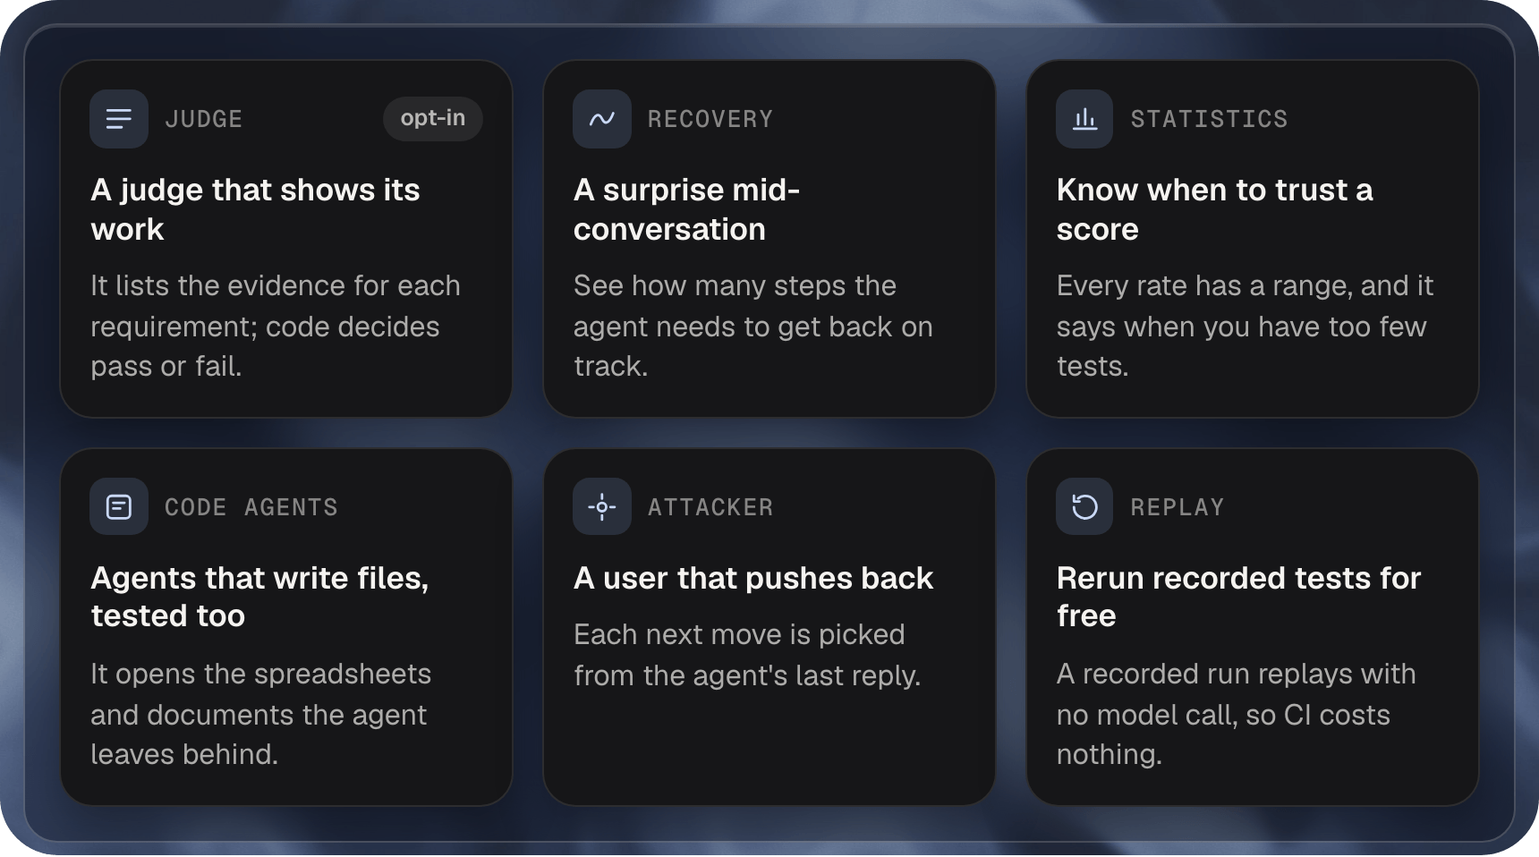
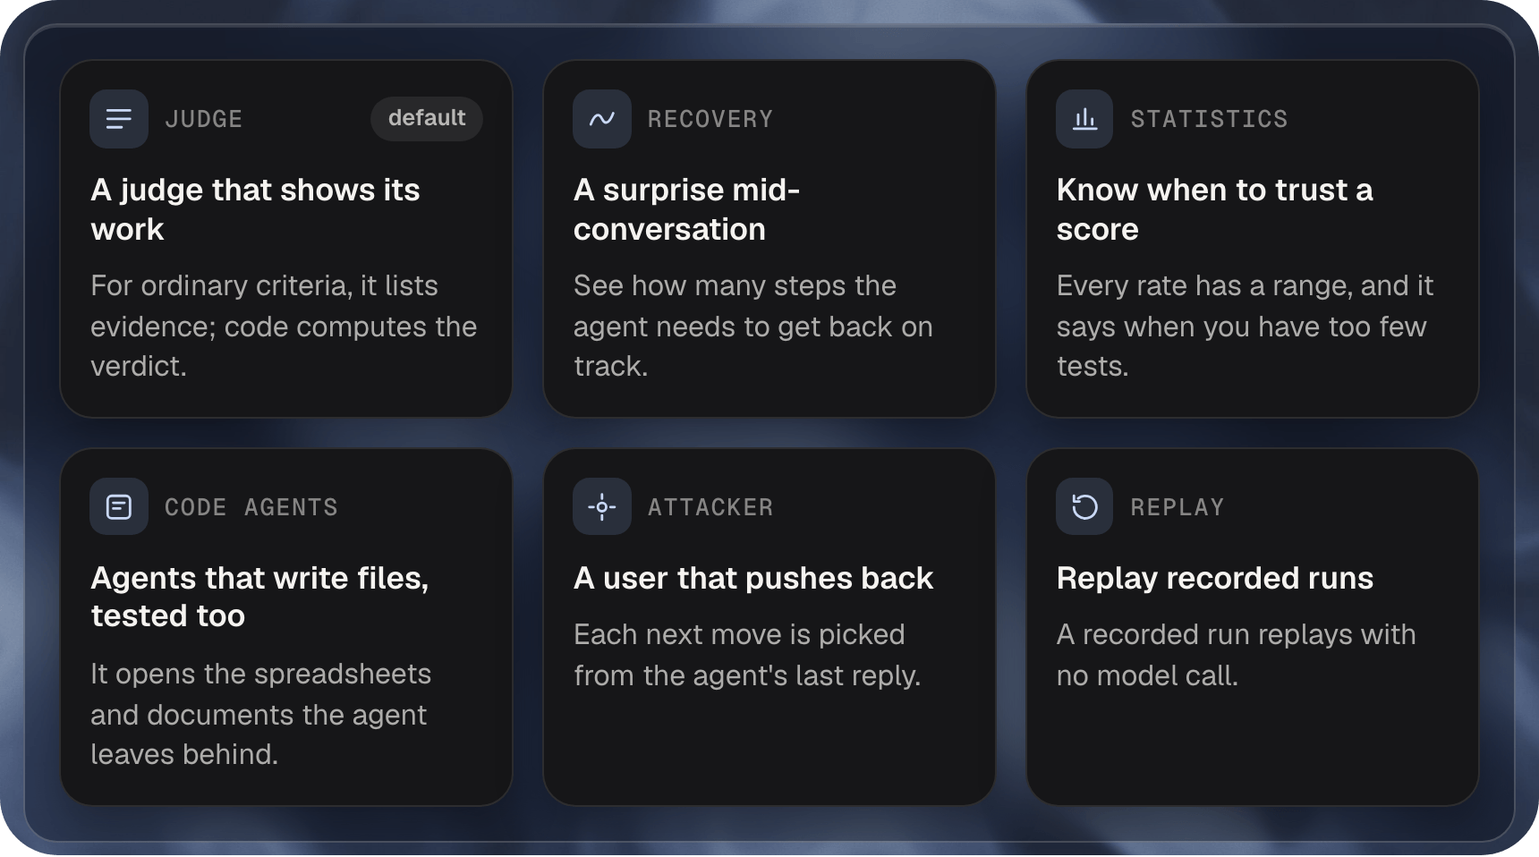
docs: refresh README figures for release next
Align source selection, gate, council, default evidence and research harness labels with the shipped docs. Regenerate both PNG themes and update figure descriptions.

Changed region(s): [[0.6779, 0.666, 0.9244, 0.9081], [0.0616, 0.3027, 0.3081, 0.4541], [0.2465, 0.1211, 0.3081, 0.1514]]

diff --git a/.github/readme/src/council.html b/.github/readme/src/council.html
@@ -7,10 +7,10 @@
 <style>
   /* Machine checks run first. Judges of the class that earned the criterion vote. The blue path: the earned
      assignment decides which judges own a criterion. */
-  #frame { width: 640px; height: 356px; }
+  #frame { width: 640px; height: 372px; }
   .p { top: 14px; height: 202px; padding: 12px; }
   .p.m { width: 188px; }
-  .p.v { width: 156px; }
+  .p.v { width: 156px; height: 218px; }
   .p .nx-kind { position: static; display: block; }
   .p .t { margin-top: 7px; font: 600 12.5px/1.25 var(--nx-sans); color: var(--nx-ink); }
   .p .chips { margin-top: 12px; display: flex; flex-wrap: wrap; gap: 5px; }
@@ -23,9 +23,9 @@
   .v .pills { margin-top: 12px; display: flex; gap: 6px; }
   .v .miss { display: inline-flex; align-items: center; height: 20px; padding: 0 8px; border-radius: 999px;
     background: var(--miss-bg); color: var(--miss-ink); font: 600 10.5px/1 var(--nx-sans); }
-  .v .rules { margin-top: 12px; display: grid; gap: 8px; font: 400 11px/1.35 var(--nx-sans); color: var(--detail); }
+  .v .rules { margin-top: 12px; display: grid; gap: 6px; font: 400 11px/1.35 var(--nx-sans); color: var(--detail); }
   .v .rules b { color: var(--nx-ink); font-weight: 600; }
-  .a { left: 14px; top: 236px; width: 592px; height: 86px; padding: 12px 14px; }
+  .a { left: 14px; top: 252px; width: 592px; height: 86px; padding: 12px 14px; }
   .a .nx-kind { position: static; display: block; }
   .a .steps { margin-top: 12px; display: grid; grid-template-columns: repeat(4, 1fr); column-gap: 22px; }
   .a .n { font: 500 10px/1 var(--nx-mono); letter-spacing: 1px; color: var(--kind); }
@@ -37,12 +37,12 @@
 <body>
 <div id="frame" class="nx-ill scene">
   <div class="nx-ill__glass">
-    <svg class="nx-edges" viewBox="0 0 620 336">
+    <svg class="nx-edges" viewBox="0 0 620 352">
       <path class="nx-edge" d="M202 115 C217 115 217 61 232 61"/>
       <path class="nx-edge" d="M202 115 C217 115 217 169 232 169"/>
       <path class="nx-edge" d="M420 61 C435 61 435 115 450 115"/>
       <path class="nx-edge" d="M420 169 C435 169 435 115 450 115"/>
-      <path class="nx-edge--new" d="M326 236 L326 216"/>
+      <path class="nx-edge--new" d="M326 252 L326 216"/>
       
     </svg>
 
@@ -53,17 +53,17 @@
       <div class="foot"><b>A rule that fails is final.</b> No judge overturns it.</div>
     </div>
 
-    <div class="nx-node j" style="top:14px"><span class="nx-node__ico"><svg viewBox="0 0 24 24" fill="none" stroke="currentColor" stroke-width="1.8" stroke-linecap="round" stroke-linejoin="round"><path d="M20 6 9 17l-5-5"/></svg></span><span class="nx-node__kind">Three judges</span><span class="nx-node__title">Fast judges</span><span class="nx-node__detail">Answer one yes or no question, quickly.</span></div>
-    <div class="nx-node j" style="top:122px"><span class="nx-node__ico"><svg viewBox="0 0 24 24" fill="none" stroke="currentColor" stroke-width="1.8" stroke-linecap="round" stroke-linejoin="round"><path d="M12 8V4H8"/><rect width="16" height="12" x="4" y="8" rx="2"/><path d="M2 14h2"/><path d="M20 14h2"/><path d="M15 13v2"/><path d="M9 13v2"/></svg></span><span class="nx-node__kind">Three judges</span><span class="nx-node__title">Expert judges</span><span class="nx-node__detail">Models from different labs that reason it through.</span></div>
+    <div class="nx-node j" style="top:14px"><span class="nx-node__ico"><svg viewBox="0 0 24 24" fill="none" stroke="currentColor" stroke-width="1.8" stroke-linecap="round" stroke-linejoin="round"><path d="M20 6 9 17l-5-5"/></svg></span><span class="nx-node__kind">Default: three judges</span><span class="nx-node__title">Fast judges</span><span class="nx-node__detail">Answer one yes or no question, quickly.</span></div>
+    <div class="nx-node j" style="top:122px"><span class="nx-node__ico"><svg viewBox="0 0 24 24" fill="none" stroke="currentColor" stroke-width="1.8" stroke-linecap="round" stroke-linejoin="round"><path d="M12 8V4H8"/><rect width="16" height="12" x="4" y="8" rx="2"/><path d="M2 14h2"/><path d="M20 14h2"/><path d="M15 13v2"/><path d="M9 13v2"/></svg></span><span class="nx-node__kind">Default: three judges</span><span class="nx-node__title">Expert judges</span><span class="nx-node__detail">Models from different labs that reason it through.</span></div>
 
     <div class="nx-ill-panel p v" style="left:450px">
       <span class="nx-kind">Then</span>
       <div class="t">Verdict</div>
       <div class="pills"><span class="nx-done">pass</span><span class="miss">fail</span></div>
       <div class="rules">
-        <div><b>Majority</b> of three judges wins.</div>
-        <div><b>Split:</b> the other kind of judge decides.</div>
-        <div><b>Unsure:</b> judged again, never counted.</div>
+        <div><b>Majority</b> of seats or vote weights.</div>
+        <div><b>Split:</b> other class in hybrid mode, then larger budget.</div>
+        <div><b>Unresolved:</b> inconclusive, no pass or fail.</div>
       </div>
     </div>
 
@@ -71,9 +71,9 @@
       <span class="nx-kind nx-kind--ink">A judge earns its place</span>
       <div class="steps">
         <div><div class="n">01</div><div class="s">Two examples</div><div class="s2">one bad, one good</div></div>
-        <div><div class="n">02</div><div class="s">Tells them apart</div><div class="s2">3 times out of 3</div></div>
-        <div><div class="n">03</div><div class="s">Agrees with you</div><div class="s2">on your own labels</div></div>
-        <div class="own"><div class="n">04</div><div class="s">Then it judges</div><div class="s2">ties go to the fast judge</div></div>
+        <div><div class="n">02</div><div class="s">Tells them apart</div><div class="s2">default: 3 out of 3</div></div>
+        <div><div class="n">03</div><div class="s">Agrees with you</div><div class="s2">kappa at least 0.8</div></div>
+        <div class="own"><div class="n">04</div><div class="s">Then it judges</div><div class="s2">class ties go to fast</div></div>
       </div>
     </div>
   </div>

diff --git a/.github/readme/src/blast.html b/.github/readme/src/blast.html
@@ -1,7 +1,7 @@
 <!doctype html>
 <html lang="en"><head><meta charset="utf-8"><title>driftbench: a prompt line and the tests it touches</title><link rel="stylesheet" href="brand.css">
 <style>
-#frame {width:640px;height:360px;}
+#frame {width:640px;height:380px;}
 .prompt {left:16px;top:60px;width:202px;height:182px;padding:12px;}
 .prompt .nx-kind {position:static;display:block;font-size:10px;}
 .code {margin-top:12px;font:400 11.5px/1.4 var(--nx-sans);color:var(--detail);}
@@ -16,13 +16,15 @@
 .key {display:flex;align-items:center;gap:7px;font:400 11px/1.3 var(--nx-sans);color:var(--detail);}
 .sw {width:12px;height:12px;border-radius:3px;background:var(--nx-card);border:1px solid var(--nx-line);}
 .sw.linked,.sw.inherit {background:var(--tile);border-color:transparent;}
+.note {position:absolute;left:16px;top:330px;width:588px;font:400 11px/1.3 var(--nx-sans);color:var(--detail);}
 </style></head><body><div id="frame" class="nx-ill scene"><div class="nx-ill__glass">
 <svg class="nx-edges" viewBox="0 0 620 340"><path class="nx-edge--new" d="M218 158 C237 158 237 44 397 44 L421 44 L421 60"/><path class="nx-edge--new" d="M218 158 C237 158 237 112 324 112"/><path class="nx-edge--new" d="M218 158 C237 158 237 224 392 224"/></svg>
-<span class="nx-kind" style="left:16px;top:18px">One prompt line edited</span><span class="nx-kind" style="left:256px;top:18px">Tests linked to that line</span>
+<span class="nx-kind" style="left:16px;top:18px">One prompt line edited</span><span class="nx-kind" style="left:256px;top:18px">Advisory source selection</span>
 <div class="nx-ill-panel prompt"><span class="nx-kind">Acme prompt · fictional</span><div class="code"><div class="line"><span class="num">17</span><span>Read the plan details.</span></div><div class="line edit"><span class="num">18</span><span>Read the order back.<br>Wait for confirmation.</span></div><div class="line"><span class="num">19</span><span>Confirm the order number.</span></div></div></div>
 <div class="row" style="top:60px"><span class="bk">greet</span><span class="bk">offer</span><span class="bk linked">recap</span><span class="bk inherit">order</span><span class="bk inherit">close</span></div>
 <div class="row" style="top:112px"><span class="bk">greet</span><span class="bk linked">recap</span><span class="bk inherit">order</span><span class="bk inherit">close</span></div>
 <div class="row" style="top:164px"><span class="bk">greet</span><span class="bk">address</span><span class="bk">offer</span><span class="bk">call back</span><span class="bk">close</span></div>
 <div class="row" style="top:216px"><span class="bk">greet</span><span class="bk">offer</span><span class="bk linked">recap</span><span class="bk inherit">close</span></div>
-<div class="nx-ill-panel legend"><span class="key"><span class="sw linked"></span>linked to the edited line</span><span class="key"><span class="sw inherit"></span>inherits its state</span><span class="key"><span class="sw"></span>last result kept</span></div>
+<div class="nx-ill-panel legend"><span class="key"><span class="sw linked"></span>linked to the edited line</span><span class="key"><span class="sw inherit"></span>would inherit its state</span><span class="key"><span class="sw"></span>outside selection</span></div>
+<div class="note">Source links advise selection. Declared dependencies control reruns.</div>
 </div></div><script>window.__fonts=['400 11.5px Geist','600 12px Geist','500 10px "Geist Mono"'];Promise.all(window.__fonts.map(f=>document.fonts.load(f))).then(()=>document.fonts.ready).then(()=>window.__ready=true);</script></body></html>

diff --git a/.github/readme/src/loop.html b/.github/readme/src/loop.html
@@ -46,14 +46,14 @@
     <div class="nx-node r1" style="left:432px">
       <span class="nx-node__ico"><svg viewBox="0 0 24 24" fill="none" stroke="currentColor" stroke-width="1.8" stroke-linecap="round" stroke-linejoin="round"><path d="M5 12.5l4 4L19 7"/></svg></span>
       <span class="nx-node__kind">3 Check and judge</span>
-      <span class="nx-node__title">A verdict for every step</span>
+      <span class="nx-node__title">A verdict per step</span>
       <span class="nx-node__detail">Rules first, then model judges.</span>
     </div>
     <div class="nx-node r2" style="left:432px">
       <span class="nx-node__ico"><svg viewBox="0 0 24 24" fill="none" stroke="currentColor" stroke-width="1.8" stroke-linecap="round" stroke-linejoin="round"><path d="M12 3l7 3v6c0 4-3 7-7 9-4-2-7-5-7-9V6z"/><path d="M9 12l2 2 4-4"/></svg></span>
       <span class="nx-node__kind">4 Gate</span>
-      <span class="nx-node__title">Better or worse?</span>
-      <span class="nx-node__detail">Your CI blocks a change that made it worse.</span>
+      <span class="nx-node__title">Noninferior?</span>
+      <span class="nx-node__detail">CI passes only with enough evidence.</span>
     </div>
     <div class="nx-node r2" style="left:224px">
       <span class="nx-node__ico"><svg viewBox="0 0 24 24" fill="none" stroke="currentColor" stroke-width="1.8" stroke-linecap="round" stroke-linejoin="round"><path d="M4 20l4-1 10-10-3-3L5 16z"/></svg></span>
@@ -64,8 +64,8 @@
     <div class="nx-node r2 nx-ring" style="left:16px">
       <span class="nx-node__ico"><svg viewBox="0 0 24 24" fill="none" stroke="currentColor" stroke-width="1.8" stroke-linecap="round" stroke-linejoin="round"><circle cx="12" cy="12" r="3"/><circle cx="12" cy="12" r="8"/></svg></span>
       <span class="nx-node__kind">6 Rerun</span>
-      <span class="nx-node__title">Only what the fix touches</span>
-      <span class="nx-node__detail">The other results are kept.</span>
+      <span class="nx-node__title">Declared blast radius</span>
+      <span class="nx-node__detail">Keep other results; audit the radius.</span>
     </div>
     <div class="mid">Fix, rerun what changed, check again.</div>
   </div>

diff --git a/.github/readme/src/innovations.html b/.github/readme/src/innovations.html
@@ -24,9 +24,9 @@
 <div id="frame" class="nx-ill scene">
   <div class="nx-ill__glass">
     <div class="c">
-      <div class="top"><span class="nx-node__ico"><svg viewBox="0 0 24 24" fill="none" stroke="currentColor" stroke-width="1.8" stroke-linecap="round" stroke-linejoin="round"><path d="M4 6h16M4 12h16M4 18h10"/></svg></span><span class="k">Judge</span><span class="opt">opt-in</span></div>
+      <div class="top"><span class="nx-node__ico"><svg viewBox="0 0 24 24" fill="none" stroke="currentColor" stroke-width="1.8" stroke-linecap="round" stroke-linejoin="round"><path d="M4 6h16M4 12h16M4 18h10"/></svg></span><span class="k">Judge</span><span class="opt">default</span></div>
       <div class="t">A judge that shows its work</div>
-      <div class="l">It lists the evidence for each requirement; code decides pass or fail.</div>
+      <div class="l">For ordinary criteria, it lists evidence; code computes the verdict.</div>
     </div>
     <div class="c">
       <div class="top"><span class="nx-node__ico"><svg viewBox="0 0 24 24" fill="none" stroke="currentColor" stroke-width="1.8" stroke-linecap="round" stroke-linejoin="round"><path d="M4 16c3-8 6-8 8-4s5 4 8-4"/></svg></span><span class="k">Recovery</span></div>
@@ -50,8 +50,8 @@
     </div>
     <div class="c">
       <div class="top"><span class="nx-node__ico"><svg viewBox="0 0 24 24" fill="none" stroke="currentColor" stroke-width="1.8" stroke-linecap="round" stroke-linejoin="round"><path d="M4 12a8 8 0 1 0 3-6.2"/><path d="M4 4v4h4"/></svg></span><span class="k">Replay</span></div>
-      <div class="t">Rerun recorded tests for free</div>
-      <div class="l">A recorded run replays with no model call, so CI costs nothing.</div>
+      <div class="t">Replay recorded runs</div>
+      <div class="l">A recorded run replays with no model call.</div>
     </div>
   </div>
 </div>

diff --git a/.github/readme/src/moj.html b/.github/readme/src/moj.html
@@ -30,7 +30,7 @@
       <path class="nx-edge--new" d="M101 186 C101 240, 300 240, 404 240"/>
       <path class="nx-edge" d="M505 186 L505 214"/>
     </svg>
-    <span class="nx-kind" style="left:16px;top:16px">One answer to judge</span>
+    <span class="nx-kind" style="left:16px;top:16px">One answer to judge · opt-in research harness</span>
     <span class="nx-kind" style="left:404px;top:16px;display:none"></span>
 
     <div class="nx-node q nx-node--noico">

diff --git a/README.md b/README.md
@@ -774,10 +774,10 @@ Limits: a verdict names its object, item, implementation and layer in its `by` f
 <a href=".github/readme/blast-light.png">
   <picture>
     <source media="(prefers-color-scheme: dark)" srcset=".github/readme/blast-dark.png">
-    <img alt="A fictional Acme prompt has one edited line, line 18: Read the order back and wait for confirmation. Lines 17 and 19 stay unchanged. Arrows connect the edited line to recap blocks in three test conversations. Those linked blocks glow blue. Steps that inherit their state are also selected. A fourth conversation has no linked block; its results are kept from the last run. A legend separates linked tests, inherited state and kept results. This is an illustration of the intended source selection; source links currently advise selection and do not skip tests." src=".github/readme/blast-light.png" width="100%">
+    <img alt="A fictional Acme prompt has one edited line, line 18: Read the order back and wait for confirmation. Lines 17 and 19 stay unchanged. Arrows connect the edited line to recap blocks in three test conversations. Those linked blocks glow blue. Steps that would inherit their state are highlighted too. A fourth conversation has no linked block. A legend separates linked tests, steps that would inherit their state and blocks outside the selection. The figure states that declared dependencies control reruns. This is an illustration of the intended source selection; source links currently advise selection and do not skip tests." src=".github/readme/blast-light.png" width="100%">
   </picture>
 </a>
-<p align="center"><sub>Edit one prompt line, follow its links to the tests, and keep the other results. Fictional Acme example.</sub></p>
+<p align="center"><sub>Edit one prompt line and inspect its advisory source selection. Declared dependencies control reruns. Fictional Acme example.</sub></p>
 
 **See which tests an edited prompt line can affect, then rerun the declared blast radius and keep the other results.**
 
@@ -820,7 +820,7 @@ blocks:
 <a href=".github/readme/moj-light.png">
   <picture>
     <source media="(prefers-color-scheme: dark)" srcset=".github/readme/moj-dark.png">
-    <img alt="One answer to judge. First, a quick, cheap judge reads it and says how sure it is and what kind of answer this is. If it is sure, it decides at once. If not, the answer goes to the expert that fits: a fact or a sum to check is solved once and compared; anything else unclear goes to a careful reasoning judge; if still unclear, a panel of models votes. The verdict is pass or fail, with the reason. At least as accurate as promptfoo on three public benchmarks, with 3.5 to 19.4 times fewer costly calls." src=".github/readme/moj-light.png" width="100%">
+    <img alt="One answer to judge, through the opt-in research harness. First, a quick, cheap judge reads it and says how sure it is and what kind of answer this is. If it is sure, it decides at once. If not, the answer goes to the expert that fits: a fact or a sum to check is solved once and compared; anything else unclear goes to a careful reasoning judge; if still unclear, a panel of models votes. The verdict is pass or fail, with the reason. At least as accurate as promptfoo on three public benchmarks, with 3.5 to 19.4 times fewer costly calls." src=".github/readme/moj-light.png" width="100%">
   </picture>
 </a>
 <p align="center"><sub>A cheap judge decides what it is sure of; the rest goes to the expert that fits.</sub></p>
@@ -861,17 +861,17 @@ blocks:
 <a href=".github/readme/innovations-light.png">
   <picture>
     <source media="(prefers-color-scheme: dark)" srcset=".github/readme/innovations-dark.png">
-    <img alt="Six more things driftbench does. A judge that shows its work, opt-in: it lists the evidence for each requirement and code decides pass or fail. Recovery: a surprise mid-conversation, and how many steps the agent needs to get back on track. Statistics: every rate has a range, and it says when you have too few tests. Code agents: it opens the spreadsheets and documents the agent leaves behind. Attacker: a user that pushes back, each move picked from the agent's last reply. Replay: a recorded run replays with no model call." src=".github/readme/innovations-light.png" width="100%">
+    <img alt="Six more things driftbench does. A judge that shows its work, default: for ordinary criteria it lists evidence and code computes the verdict. Recovery: a surprise mid-conversation, and how many steps the agent needs to get back on track. Statistics: every rate has a range, and it says when you have too few tests. Code agents: it opens the spreadsheets and documents the agent leaves behind. Attacker: a user that pushes back, each move picked from the agent's last reply. Replay: a recorded run replays with no model call." src=".github/readme/innovations-light.png" width="100%">
   </picture>
 </a>
 <p align="center"><sub>Six more, in one line each.</sub></p>
 
-- **A judge that shows its work (opt-in).** It writes the evidence for each requirement, and code decides pass or fail. promptfoo's select-best prompt asks the model for the index of the text that best fits the criteria, as a single integer ([its grader](comparisons/promptfoo/hard/vendor/grading.ts.txt)). On RubricBench, a public benchmark, it scores 7 points above promptfoo with Claude Haiku 5.5. [How we measured](docs/comparison/methods.md#a-judge-that-shows-its-work)
+- **A judge that shows its work.** For ordinary criteria, the default judge writes evidence and code computes the verdict. See [the default judge](docs/default-judge.md). promptfoo's select-best prompt asks the model for the index of the text that best fits the criteria, as a single integer ([its grader](comparisons/promptfoo/hard/vendor/grading.ts.txt)). On RubricBench, a public benchmark, it scores 7 points above promptfoo with Claude Haiku 5.5. [How we measured](docs/comparison/methods.md#a-judge-that-shows-its-work)
 - **Recovery.** Inject a surprise at any step and count the steps until the agent is back on track. No other tool in our comparison shows recovery metrics in full (row 15). → [recovery](docs/concepts/recovery.md)
 - **Statistics you can trust.** Every rate has a range, two versions are compared on the same tests, and the gate says when you have too few tests to decide. No other tool in our comparison shows intervals with significance tests in full (row 17). → [statistics](docs/concepts/statistics.md)
 - **Code agents.** The same steps check the files a code agent leaves behind: spreadsheet cells, documents, the workspace. None of the six code-agent benchmarks in our [comparison](docs/comparison.md#code-agent-benchmarks) grades office files in the pages read. → [code agents](docs/estate.md)
 - **An attacker that adapts.** A simulated user picks each next move from the agent's last reply. → [attacker](docs/attack.md)
-- **Replay for free.** A recorded run replays with no model call, so CI costs nothing. LangWatch and Inspect cache model calls (row 22); driftbench replays whole runs. → [replay](docs/estate.md#replay-built)
+- **Replay recorded runs.** A recorded run replays with no model call. LangWatch and Inspect cache model calls (row 22); driftbench replays whole runs. → [replay](docs/estate.md#replay-built)
 
 **One combined example on main**
 
@@ -998,7 +998,7 @@ spec: refund.spec.yaml # The spec this persona plays
 <a href=".github/readme/loop-light.png">
   <picture>
     <source media="(prefers-color-scheme: dark)" srcset=".github/readme/loop-dark.png">
-    <img alt="The loop a team runs, in six steps. 1 Generate: tests from a map you approve; code writes the blocks. 2 Run: your agent through one adapter, three modes, repeats. 3 Check and judge: a verdict per block, machine checks then the judges. 4 Gate: parity or regression, an exit code on every pull request. 5 Fix: the verdict names the block and the check. 6 Rerun the radius: only what the fix touches; the rest is carried from the last run. Then the gate decides again." src=".github/readme/loop-light.png" width="100%">
+    <img alt="The loop a team runs, in six steps. 1 Generate: tests from a map you approve; code writes the blocks. 2 Run: your agent through one adapter, three modes, repeats. 3 Check and judge: a verdict per block, machine checks then the judges. 4 Gate: CI passes only with enough evidence of noninferiority. 5 Fix: the verdict names the block and the check. 6 Rerun the declared blast radius: keep the other results and audit the radius. Then the gate decides again." src=".github/readme/loop-light.png" width="100%">
   </picture>
 </a>
 
@@ -1243,14 +1243,14 @@ An agent can pass every step on its own and still fail the whole conversation. R
 <a href=".github/readme/council-light.png">
   <picture>
     <source media="(prefers-color-scheme: dark)" srcset=".github/readme/council-dark.png">
-    <img alt="How a verdict is reached. First, rules checked by code: tools, text, language, personal data, end state; a rule that fails is final. Then three fast judges, which answer one yes or no question, or three expert judges, models from different labs that reason it through. The majority of three wins; a split goes to the other kind of judge; an unsure answer is judged again and never counted. A judge earns its place by telling a bad example from a good one 3 times out of 3. It must agree with your labels. Ties go to the fast judge." src=".github/readme/council-light.png" width="100%">
+    <img alt="How a verdict is reached. First, rules checked by code: tools, text, language, personal data, end state; a rule that fails is final. Then, by default, three fast judges, which answer one yes or no question, or three expert judges, models from different labs that reason it through. A majority of seats or vote weights wins. A split goes to the other class in hybrid mode, then to a larger budget. An unresolved result is inconclusive, neither pass nor fail. A judge earns its place by telling a bad example from a good one in every repeat, 3 by default. Its agreement with hand labels must reach kappa 0.8. Class ties go to the fast judge." src=".github/readme/council-light.png" width="100%">
   </picture>
 </a>
 <p align="center"><sub>Rules first, then fast or expert judges, each one tested to earn its place.</sub></p>
 
 - **Machine checks first.** Code checks everything code can check. A machine fail is final.
-- **Earned on evidence.** A judge must separate a failing transcript from a clean one 3 times out of 3. It must also agree with hand labels at a kappa of 0.8 or more.
-- **Strict verdicts.** Majority of three. A split goes to the other class of judge. An inconclusive answer is judged again and never counted. A judge never shares the agent's model family.
+- **Earned on evidence.** A judge must separate a failing transcript from a clean one in every repeat, 3 by default. It must also agree with hand labels at a kappa of 0.8 or more.
+- **Strict verdicts.** Three seats by default, with configurable size and weights. A split tries the other class in hybrid mode, then a larger budget. An unresolved result is inconclusive. A judge never shares the agent's model family.
 - **Rules you can inspect.** Every verdict names its deciding rule. You can change that rule in a file and score the stored run again.
 
 <sub>Rule files and verdict stamps ship: see [Rule files](#rule-files-change-the-rule-and-score-the-run-again).</sub>
